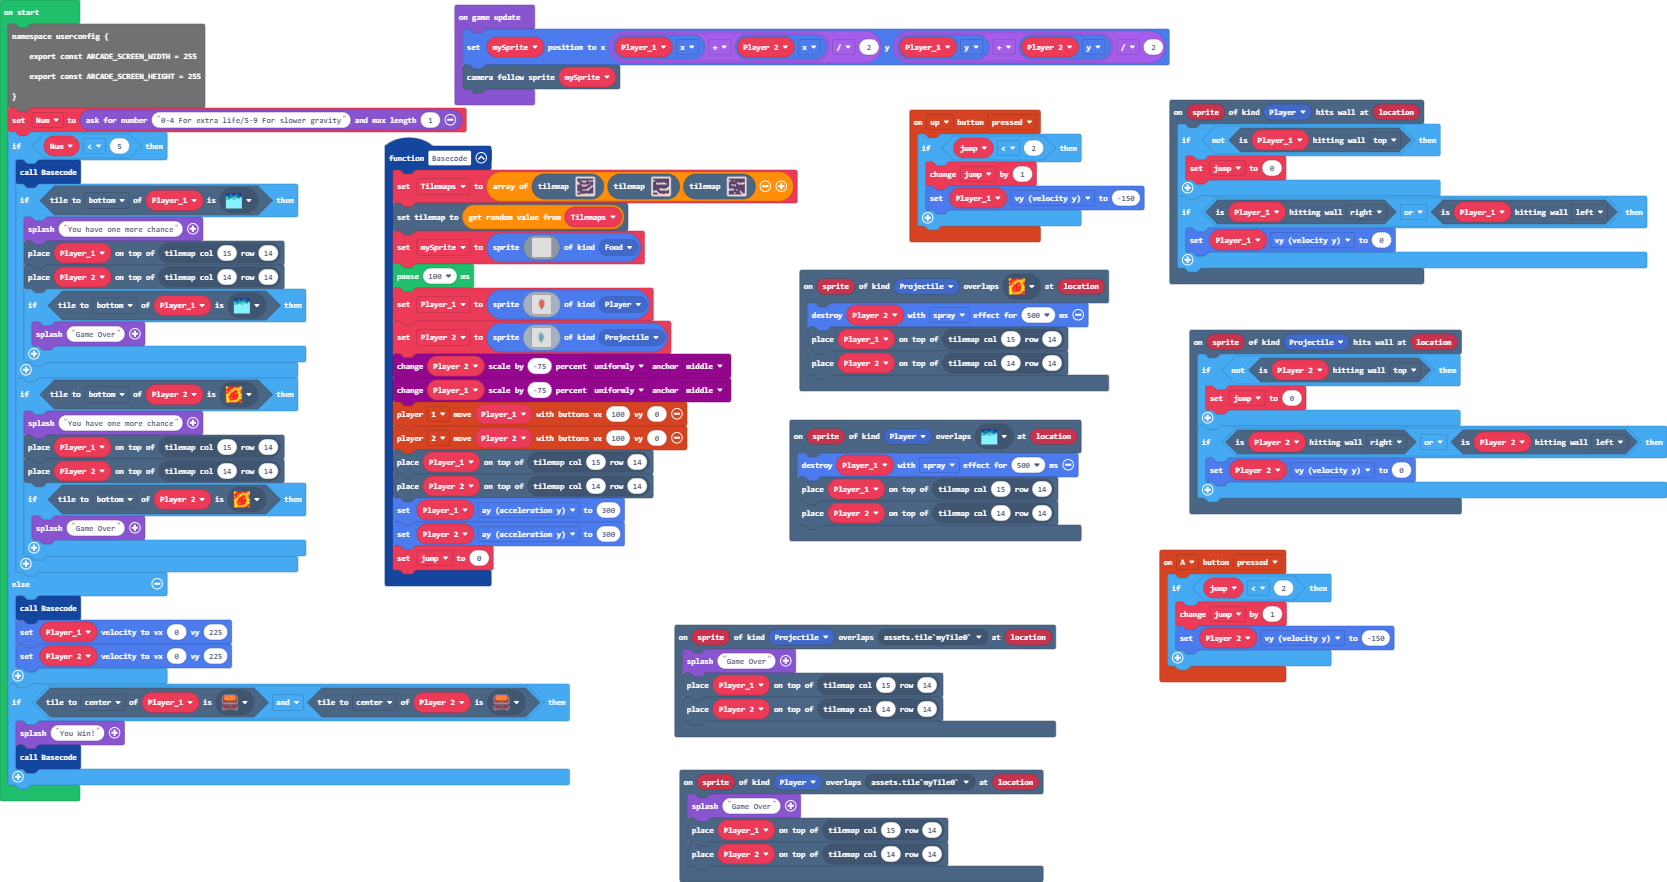
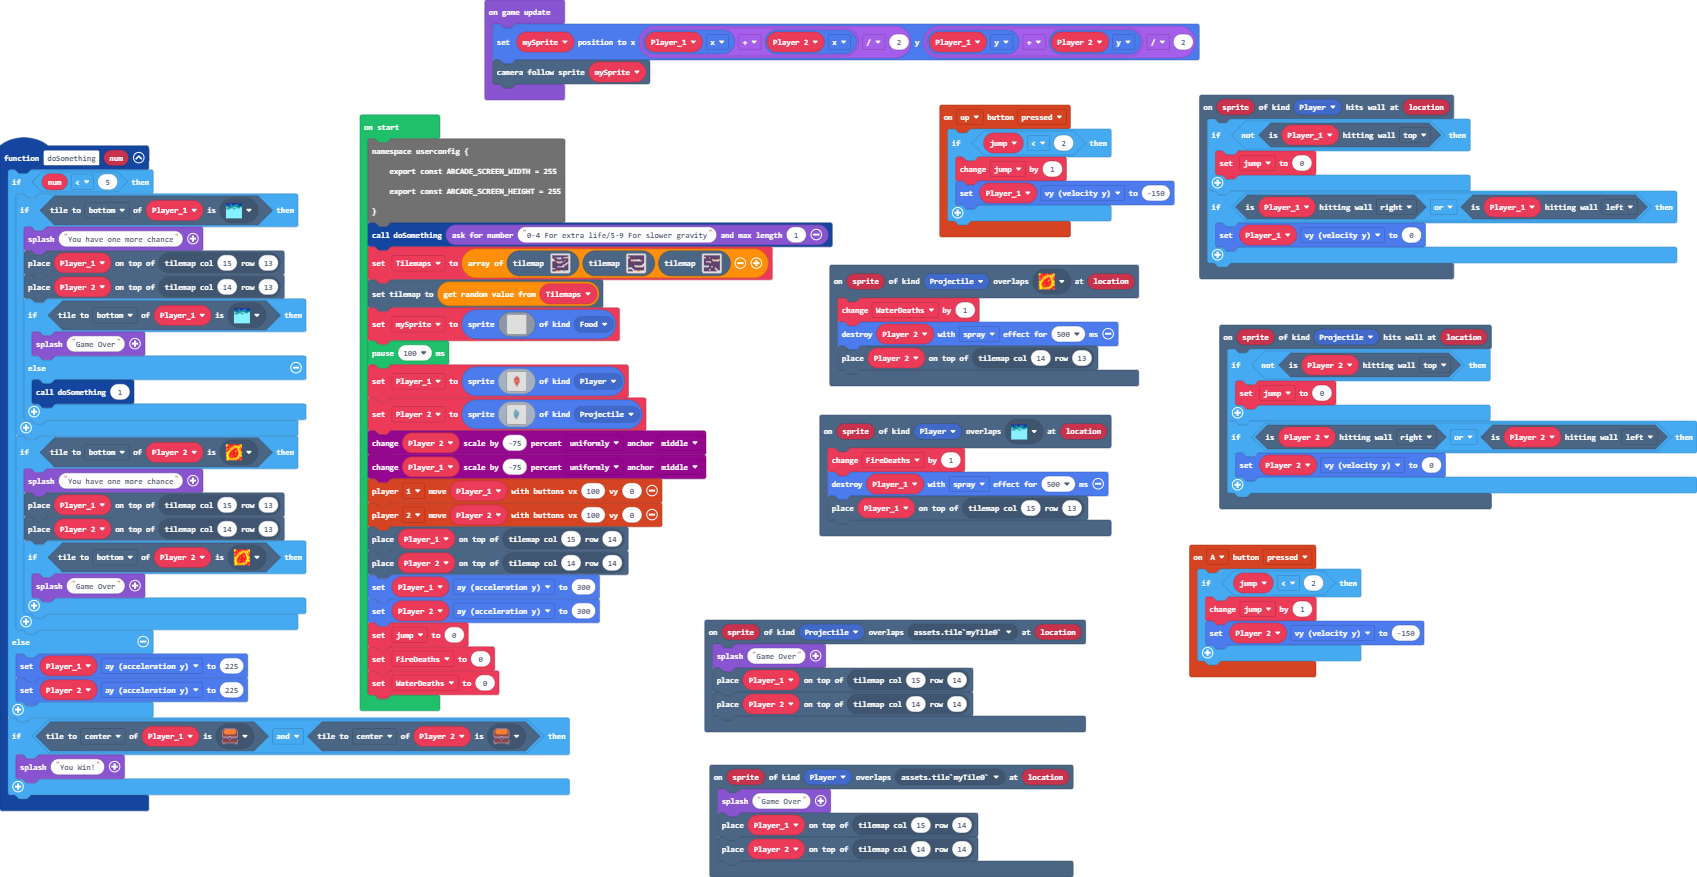
Update main.blocks, main.ts

diff --git a/main.ts b/main.ts
@@ -18,9 +18,9 @@ scene.onHitWall(SpriteKind.Player, function (sprite, location) {
     }
 })
 scene.onOverlapTile(SpriteKind.Projectile, sprites.dungeon.hazardLava0, function (sprite, location) {
+    WaterDeaths += 1
     sprites.destroy(Player_2, effects.spray, 500)
-    tiles.placeOnTile(Player_1, tiles.getTileLocation(15, 14))
-    tiles.placeOnTile(Player_2, tiles.getTileLocation(14, 14))
+    tiles.placeOnTile(Player_2, tiles.getTileLocation(14, 13))
 })
 controller.A.onEvent(ControllerButtonEvent.Pressed, function () {
     if (jump < 2) {
@@ -33,45 +33,39 @@ scene.onOverlapTile(SpriteKind.Projectile, assets.tile`myTile0`, function (sprit
     tiles.placeOnTile(Player_1, tiles.getTileLocation(15, 14))
     tiles.placeOnTile(Player_2, tiles.getTileLocation(14, 14))
 })
-scene.onOverlapTile(SpriteKind.Player, sprites.dungeon.hazardWater, function (sprite, location) {
-    sprites.destroy(Player_1, effects.spray, 500)
-    tiles.placeOnTile(Player_1, tiles.getTileLocation(15, 14))
-    tiles.placeOnTile(Player_2, tiles.getTileLocation(14, 14))
-})
-function Basecode () {
-    Tilemaps = [tilemap`level 1`, tilemap`level3`, tilemap`level11`]
-    tiles.setCurrentTilemap(Tilemaps._pickRandom())
-    mySprite = sprites.create(img`
-        . . . . . . . . . . . . . . . . 
-        . . . . . . . . . . . . . . . . 
-        . . . . . . . . . . . . . . . . 
-        . . . . . . . . . . . . . . . . 
-        . . . . . . . . . . . . . . . . 
-        . . . . . . . . . . . . . . . . 
-        . . . . . . . . . . . . . . . . 
-        . . . . . . . . . . . . . . . . 
-        . . . . . . . . . . . . . . . . 
-        . . . . . . . . . . . . . . . . 
-        . . . . . . . . . . . . . . . . 
-        . . . . . . . . . . . . . . . . 
-        . . . . . . . . . . . . . . . . 
-        . . . . . . . . . . . . . . . . 
-        . . . . . . . . . . . . . . . . 
-        . . . . . . . . . . . . . . . . 
-        `, SpriteKind.Food)
-    pause(100)
-    Player_1 = sprites.create(assets.image`fire boy water girl`, SpriteKind.Player)
-    Player_2 = sprites.create(assets.image`fire boy water girl0`, SpriteKind.Projectile)
-    scaling.scaleByPercent(Player_2, -75, ScaleDirection.Uniformly, ScaleAnchor.Middle)
-    scaling.scaleByPercent(Player_1, -75, ScaleDirection.Uniformly, ScaleAnchor.Middle)
-    controller.player1.moveSprite(Player_1, 100, 0)
-    controller.player2.moveSprite(Player_2, 100, 0)
-    tiles.placeOnTile(Player_1, tiles.getTileLocation(15, 14))
-    tiles.placeOnTile(Player_2, tiles.getTileLocation(14, 14))
-    Player_1.ay = 300
-    Player_2.ay = 300
-    jump = 0
+function doSomething (num: number) {
+    if (num < 5) {
+        if (Player_1.tileKindAt(TileDirection.Bottom, sprites.dungeon.hazardWater)) {
+            game.splash("You have one more chance")
+            tiles.placeOnTile(Player_1, tiles.getTileLocation(15, 13))
+            tiles.placeOnTile(Player_2, tiles.getTileLocation(14, 13))
+            if (Player_1.tileKindAt(TileDirection.Bottom, sprites.dungeon.hazardWater)) {
+                game.splash("Game Over")
+            } else {
+                doSomething(1)
+            }
+        }
+        if (Player_2.tileKindAt(TileDirection.Bottom, sprites.dungeon.hazardLava0)) {
+            game.splash("You have one more chance")
+            tiles.placeOnTile(Player_1, tiles.getTileLocation(15, 13))
+            tiles.placeOnTile(Player_2, tiles.getTileLocation(14, 13))
+            if (Player_2.tileKindAt(TileDirection.Bottom, sprites.dungeon.hazardLava0)) {
+                game.splash("Game Over")
+            }
+        }
+    } else {
+        Player_1.ay = 225
+        Player_2.ay = 225
+    }
+    if (Player_1.tileKindAt(TileDirection.Center, sprites.dungeon.chestClosed) && Player_2.tileKindAt(TileDirection.Center, sprites.dungeon.chestClosed)) {
+        game.splash("You Win!")
+    }
 }
+scene.onOverlapTile(SpriteKind.Player, sprites.dungeon.hazardWater, function (sprite, location) {
+    FireDeaths += 1
+    sprites.destroy(Player_1, effects.spray, 500)
+    tiles.placeOnTile(Player_1, tiles.getTileLocation(15, 13))
+})
 scene.onHitWall(SpriteKind.Projectile, function (sprite, location) {
     if (!(Player_2.isHittingTile(CollisionDirection.Top))) {
         jump = 0
@@ -80,8 +74,6 @@ scene.onHitWall(SpriteKind.Projectile, function (sprite, location) {
         Player_2.vy = 0
     }
 })
-let mySprite: Sprite = null
-let Tilemaps: tiles.TileMapData[] = []
 let jump = 0
 let Player_2: Sprite = null
 let Player_1: Sprite = null
@@ -89,34 +81,41 @@ namespace userconfig {
     export const ARCADE_SCREEN_WIDTH = 255
     export const ARCADE_SCREEN_HEIGHT = 255
 }
-let Num = game.askForNumber("0-4 For extra life/5-9 For slower gravity", 1)
-if (Num < 5) {
-    Basecode()
-    if (Player_1.tileKindAt(TileDirection.Bottom, sprites.dungeon.hazardWater)) {
-        game.splash("You have one more chance")
-        tiles.placeOnTile(Player_1, tiles.getTileLocation(15, 14))
-        tiles.placeOnTile(Player_2, tiles.getTileLocation(14, 14))
-        if (Player_1.tileKindAt(TileDirection.Bottom, sprites.dungeon.hazardWater)) {
-            game.splash("Game Over")
-        }
-    }
-    if (Player_2.tileKindAt(TileDirection.Bottom, sprites.dungeon.hazardLava0)) {
-        game.splash("You have one more chance")
-        tiles.placeOnTile(Player_1, tiles.getTileLocation(15, 14))
-        tiles.placeOnTile(Player_2, tiles.getTileLocation(14, 14))
-        if (Player_2.tileKindAt(TileDirection.Bottom, sprites.dungeon.hazardLava0)) {
-            game.splash("Game Over")
-        }
-    }
-} else {
-    Basecode()
-    Player_1.setVelocity(0, 225)
-    Player_2.setVelocity(0, 225)
-}
-if (Player_1.tileKindAt(TileDirection.Center, sprites.dungeon.chestClosed) && Player_2.tileKindAt(TileDirection.Center, sprites.dungeon.chestClosed)) {
-    game.splash("You Win!")
-    Basecode()
-}
+doSomething(game.askForNumber("0-4 For extra life/5-9 For slower gravity", 1))
+let Tilemaps = [tilemap`level 1`, tilemap`level3`, tilemap`level11`]
+tiles.setCurrentTilemap(Tilemaps._pickRandom())
+let mySprite = sprites.create(img`
+    . . . . . . . . . . . . . . . . 
+    . . . . . . . . . . . . . . . . 
+    . . . . . . . . . . . . . . . . 
+    . . . . . . . . . . . . . . . . 
+    . . . . . . . . . . . . . . . . 
+    . . . . . . . . . . . . . . . . 
+    . . . . . . . . . . . . . . . . 
+    . . . . . . . . . . . . . . . . 
+    . . . . . . . . . . . . . . . . 
+    . . . . . . . . . . . . . . . . 
+    . . . . . . . . . . . . . . . . 
+    . . . . . . . . . . . . . . . . 
+    . . . . . . . . . . . . . . . . 
+    . . . . . . . . . . . . . . . . 
+    . . . . . . . . . . . . . . . . 
+    . . . . . . . . . . . . . . . . 
+    `, SpriteKind.Food)
+pause(100)
+Player_1 = sprites.create(assets.image`fire boy water girl`, SpriteKind.Player)
+Player_2 = sprites.create(assets.image`fire boy water girl0`, SpriteKind.Projectile)
+scaling.scaleByPercent(Player_2, -75, ScaleDirection.Uniformly, ScaleAnchor.Middle)
+scaling.scaleByPercent(Player_1, -75, ScaleDirection.Uniformly, ScaleAnchor.Middle)
+controller.player1.moveSprite(Player_1, 100, 0)
+controller.player2.moveSprite(Player_2, 100, 0)
+tiles.placeOnTile(Player_1, tiles.getTileLocation(15, 14))
+tiles.placeOnTile(Player_2, tiles.getTileLocation(14, 14))
+Player_1.ay = 300
+Player_2.ay = 300
+jump = 0
+let FireDeaths = 0
+let WaterDeaths = 0
 game.onUpdate(function () {
     mySprite.setPosition((Player_1.x + Player_2.x) / 2, (Player_1.y + Player_2.y) / 2)
     scene.cameraFollowSprite(mySprite)
